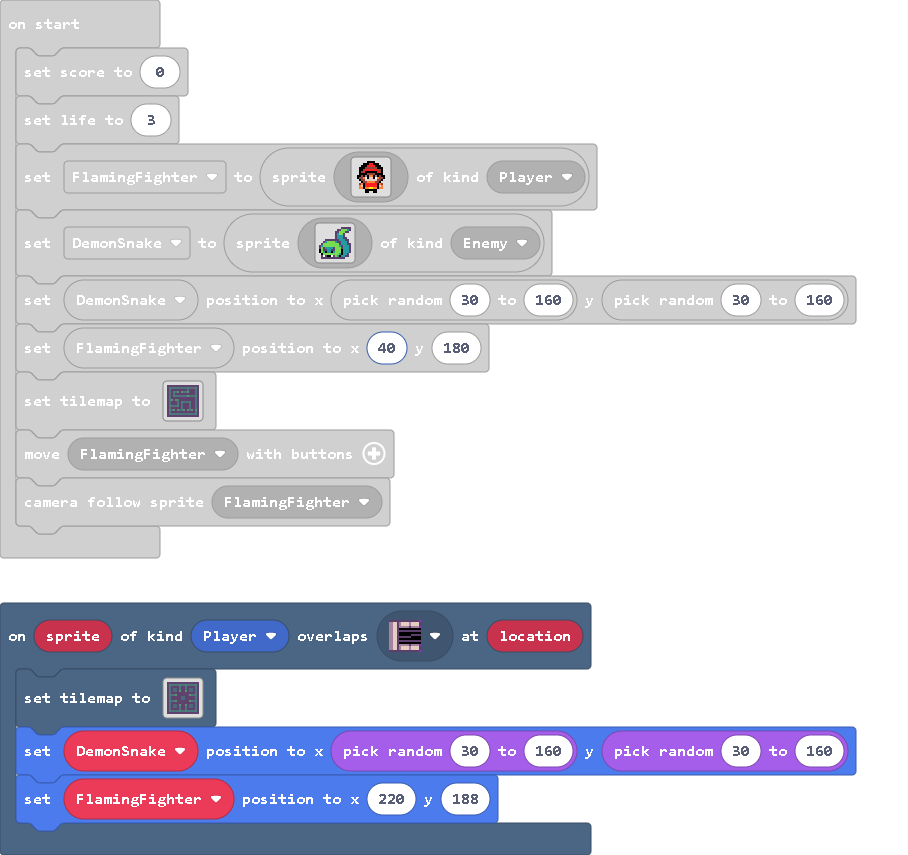
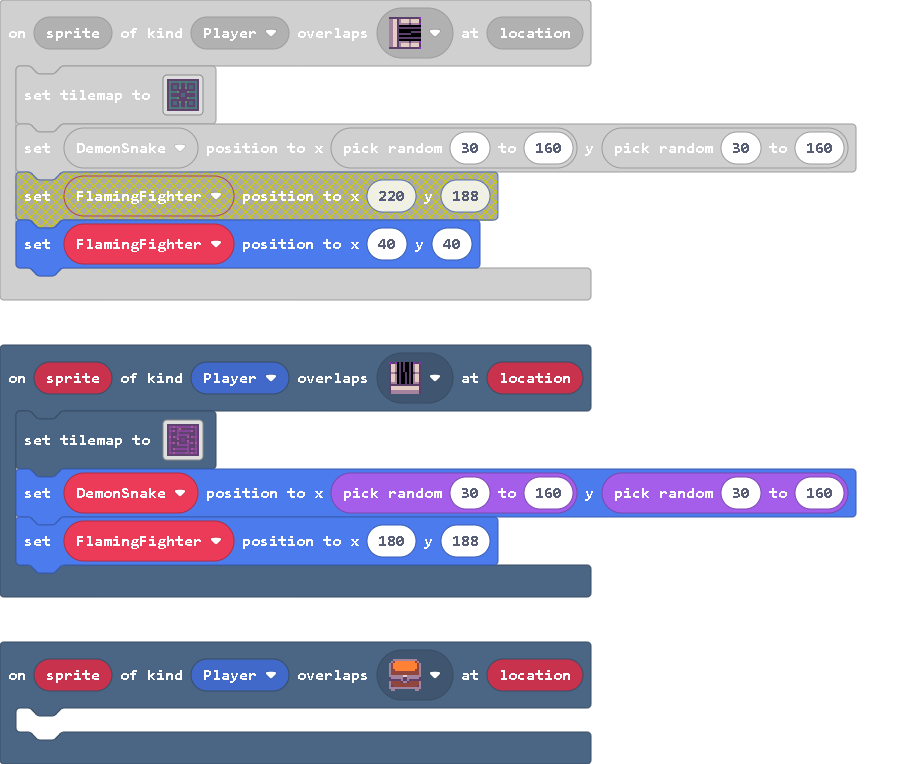
Update main.blocks, main.ts, tilemap.g.jres, tilemap.g.ts

diff --git a/tilemap.g.ts b/tilemap.g.ts
@@ -195,25 +195,44 @@ namespace myTiles {
 . 2 2 2 2 2 2 2 2 2 2 2 2 2 2 . 
 . . . . . . . . . . . . . . . . 
 `, [myTiles.transparency16,sprites.dungeon.darkGroundNorthEast1,sprites.dungeon.greenOuterNorthWest,sprites.dungeon.greenOuterNorth0,sprites.dungeon.greenOuterNorthEast,sprites.dungeon.greenOuterWest0,sprites.dungeon.greenOuterSouth1,sprites.dungeon.greenOuterEast0,sprites.dungeon.greenOuterSouthEast,sprites.dungeon.greenOuterSouthWest,sprites.dungeon.doorClosedWest,sprites.dungeon.doorClosedNorth,sprites.dungeon.greenOuterWest1,sprites.dungeon.greenOuterNorth2,sprites.dungeon.greenOuterSouth2,sprites.dungeon.greenOuterEast2], TileScale.Sixteen);
+            case "Level 4":
[1 lines of base64/hex data omitted]
+. . . . . . . . . . . . . . . . 
+. 2 2 2 2 2 2 2 2 2 2 2 2 2 2 . 
+. 2 . . . 2 . . . . . . . . 2 . 
+. 2 2 2 . 2 2 2 2 2 2 2 2 . 2 . 
+. 2 . . . 2 . . . . . . . . 2 . 
+. 2 . . . 2 2 2 2 2 2 . . . 2 . 
+. 2 . 2 2 2 . . . . 2 . 2 2 2 . 
+. 2 . . . 2 . 2 2 . . . . . 2 . 
+. 2 . . . . . 2 2 . 2 . . . 2 . 
+. 2 2 2 . 2 . . . . 2 2 2 . 2 . 
+. 2 . . . 2 2 2 2 2 2 . . . 2 . 
+. 2 . . . . . . . . 2 . . . 2 . 
+. 2 . 2 2 2 2 2 2 2 2 . 2 2 2 . 
+. 2 . . . . . . . . 2 . . . 2 . 
+. 2 2 2 2 2 2 2 2 2 2 2 2 2 2 . 
+. . . . . . . . . . . . . . . . 
+`, [myTiles.transparency16,sprites.dungeon.purpleOuterNorthWest,sprites.dungeon.darkGroundNorthEast1,sprites.dungeon.purpleOuterEast1,sprites.dungeon.purpleOuterSouthEast,sprites.dungeon.purpleOuterNorthEast,sprites.dungeon.purpleOuterSouthWest,sprites.dungeon.purpleOuterSouth1,sprites.dungeon.purpleOuterWest0,sprites.dungeon.purpleOuterNorth0,sprites.dungeon.purpleInnerSouthWest,sprites.dungeon.purpleInnerSouthEast,sprites.dungeon.purpleInnerNorthWest,sprites.dungeon.purpleInnerNorthEast,sprites.dungeon.doorClosedSouth,sprites.dungeon.purpleOuterNorth2,sprites.dungeon.chestClosed,sprites.dungeon.purpleOuterSouth2,sprites.dungeon.purpleOuterWest2,sprites.dungeon.purpleOuterEast2], TileScale.Sixteen);
             case "Level 3":
[2 lines of base64/hex data omitted]
 . . . . . . . . . . . . . . . . 
 . 2 2 2 2 2 2 2 2 2 2 2 2 2 2 . 
 . 2 . . . . 2 . . 2 . . . . 2 . 
-. 2 . . . . 2 . . 2 . . . . 2 . 
-. 2 . . . . 2 . . 2 . . . . 2 . 
+. 2 . 2 2 . 2 . . 2 . 2 2 . 2 . 
+. 2 . 2 2 . 2 . . 2 . 2 2 . 2 . 
 . 2 . . . . . . . . . . . . 2 . 
-. 2 2 2 2 . . . . . . 2 2 2 2 . 
+. 2 2 2 2 2 . . . . 2 2 2 2 2 . 
+. 2 . . . . . 2 2 . . . . . 2 . 
+. 2 . . . . . 2 2 . . . . . 2 . 
+. 2 2 2 2 2 . . . . 2 2 2 2 2 . 
 . 2 . . . . . . . . . . . . 2 . 
-. 2 . . . . . . . . . . . . 2 . 
-. 2 2 2 2 . . . . . . 2 2 2 2 . 
-. 2 . . . . . . . . . . . . 2 . 
+. 2 . 2 2 . 2 . . 2 . 2 2 . 2 . 
+. 2 . 2 2 . 2 . . 2 . 2 2 . 2 . 
 . 2 . . . . 2 . . 2 . . . . 2 . 
-. 2 . . . . 2 . . 2 . . . . 2 . 
-. 2 . . . . 2 . . 2 . . . . 2 . 
-. 2 2 2 2 2 2 2 2 2 2 2 2 2 2 . 
-. . . . . . . . . . . . . . . . 
-`, [myTiles.transparency16,sprites.dungeon.darkGroundNorthEast1,sprites.dungeon.greenOuterNorth0,sprites.dungeon.greenOuterNorthWest,sprites.dungeon.greenOuterNorthEast,sprites.dungeon.greenOuterWest0,sprites.dungeon.greenOuterSouthEast,sprites.dungeon.greenOuterSouth1,sprites.dungeon.greenOuterSouthWest,sprites.dungeon.greenOuterEast0,sprites.dungeon.greenInnerNorthEast,sprites.dungeon.greenInnerSouthEast,sprites.dungeon.greenInnerSouthWest,sprites.dungeon.greenInnerNorthWest,sprites.dungeon.greenOuterNorth2,sprites.dungeon.greenOuterEast2,sprites.dungeon.greenOuterSouth2,sprites.dungeon.greenOuterWest2], TileScale.Sixteen);
+. 2 2 2 2 2 2 . . 2 2 2 2 2 2 . 
+. . . . . . . 2 2 . . . . . . . 
+`, [myTiles.transparency16,sprites.dungeon.darkGroundNorthEast1,sprites.dungeon.greenOuterNorth0,sprites.dungeon.greenOuterNorthWest,sprites.dungeon.greenOuterNorthEast,sprites.dungeon.greenOuterWest0,sprites.dungeon.greenOuterSouthEast,sprites.dungeon.greenOuterSouth1,sprites.dungeon.greenOuterSouthWest,sprites.dungeon.greenOuterEast0,sprites.dungeon.greenInnerNorthEast,sprites.dungeon.greenInnerSouthEast,sprites.dungeon.greenInnerSouthWest,sprites.dungeon.greenInnerNorthWest,sprites.dungeon.greenOuterNorth2,sprites.dungeon.greenOuterEast2,sprites.dungeon.doorClosedSouth,sprites.dungeon.doorClosedWest], TileScale.Sixteen);
         }
         return null;
     })

diff --git a/main.ts b/main.ts
@@ -12,8 +12,16 @@ scene.onOverlapTile(SpriteKind.Player, sprites.dungeon.doorClosedNorth, function
     DemonSnake.setPosition(randint(30, 160), randint(30, 160))
     FlamingFighter.setPosition(220, 188)
 })
+scene.onOverlapTile(SpriteKind.Player, sprites.dungeon.chestClosed, function (sprite, location) {
+	
+})
 controller.right.onEvent(ControllerButtonEvent.Pressed, function () {
     FlamingFighter.setImage(assets.image`Flaming Fighter - facing right`)
+})
+scene.onOverlapTile(SpriteKind.Player, sprites.dungeon.doorClosedSouth, function (sprite, location) {
+    tiles.setTilemap(tilemap`Level 4`)
+    DemonSnake.setPosition(randint(30, 160), randint(30, 160))
+    FlamingFighter.setPosition(180, 188)
 })
 sprites.onOverlap(SpriteKind.Enemy, SpriteKind.Player, function (sprite, otherSprite) {
     DemonSnake.setPosition(randint(30, 160), randint(30, 160))
@@ -25,7 +33,7 @@ controller.down.onEvent(ControllerButtonEvent.Pressed, function () {
 scene.onOverlapTile(SpriteKind.Player, sprites.dungeon.doorClosedWest, function (sprite, location) {
     tiles.setTilemap(tilemap`Level 3`)
     DemonSnake.setPosition(randint(30, 160), randint(30, 160))
-    FlamingFighter.setPosition(220, 188)
+    FlamingFighter.setPosition(40, 40)
 })
 sprites.onOverlap(SpriteKind.Projectile, SpriteKind.Enemy, function (sprite, otherSprite) {
     DemonSnake.setPosition(randint(30, 160), randint(30, 160))
